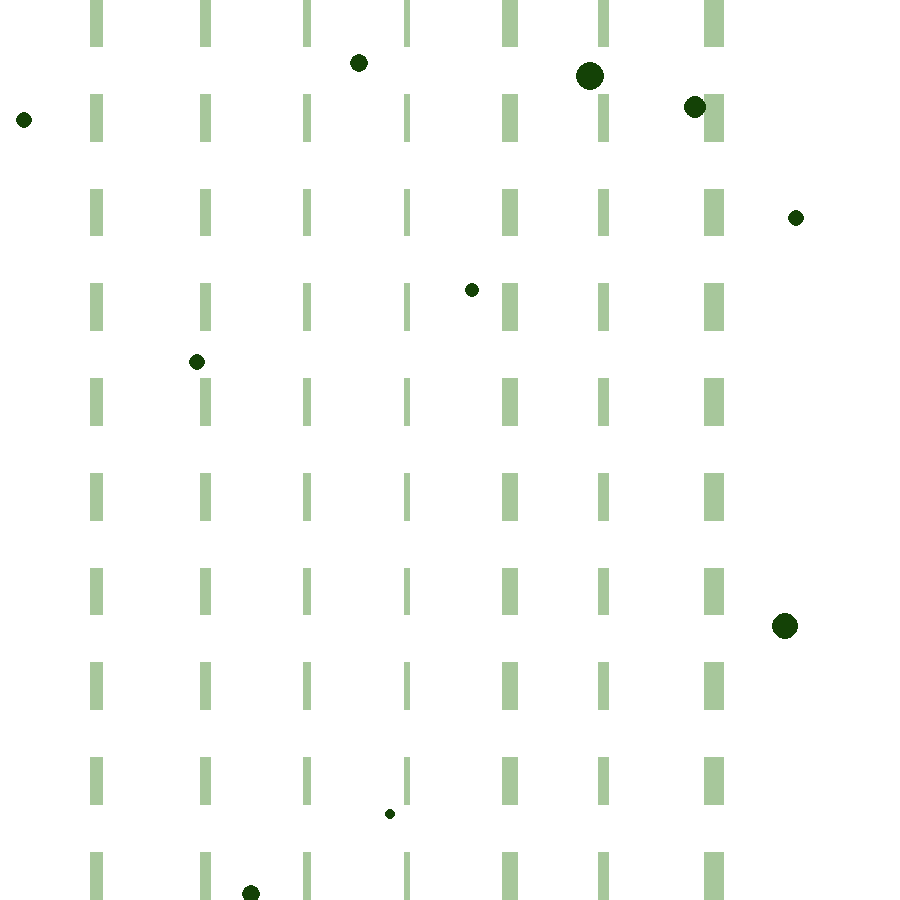
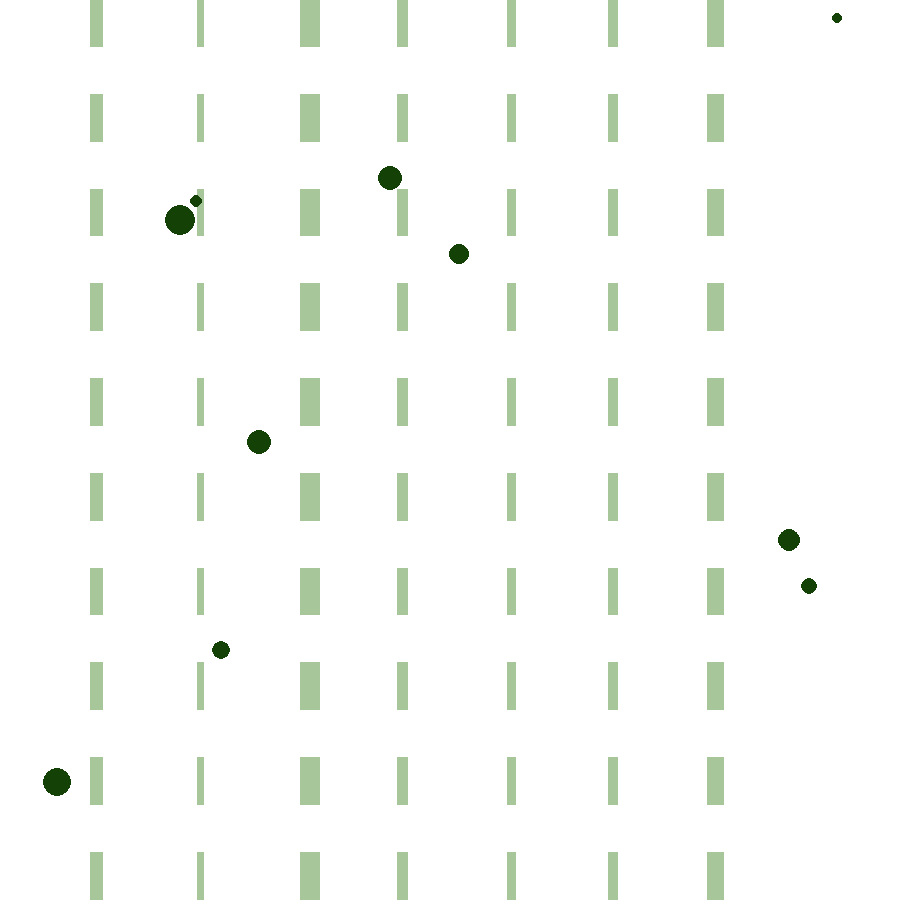
add new motion

diff --git a/new_environment.py b/new_environment.py
@@ -124,7 +124,7 @@ class World:
         for i in range(numTrees):
             x_pos = random.randint(0, width)
             y_pos = random.randint(0, height)
-            tree_radius = random.randint(20, 70)
+            tree_radius = random.randint(10, 25)
             self.tree_xs.append(x_pos)
             self.tree_ys.append(y_pos)
             self.tree_sizes.append(tree_radius)
@@ -161,6 +161,7 @@ class World:
 class Planner:
 
     trajectory = []
+    trajectoryTotal = []
     def __init__(self, robot: Robot, world: World) -> None:
         self.robot = robot
         self.world = world
@@ -183,6 +184,7 @@ class Planner:
         x = HEIGHT//300
         # print("RX: ",rx)
         self.trajectory = np.flip(np.vstack((ry*x, rx*x)).T, axis=0)
+        # self.trajectory = np.flip(np.vstack((rx*x, ry*x)).T, axis=0)
 
         # cv2.imshow('map', obs_map)
         # cv2.waitKey()
@@ -253,11 +255,30 @@ class Visualizer:
             y_pos = self.world.tree_ys[i]
             tree_radius = self.world.tree_sizes[i]
             pygame.draw.circle(self.screen, self.TREE_GREEN, (x_pos, y_pos), tree_radius)
+
+    def display_environment(self):
+        for i in range(self.world.numCropRows):
+            x_pos = self.world.crop_xs[i]
+            crop_width = self.world.cropRow_widths[i]
+            y_pos = 0
+            pygame.draw.rect(self.screen, self.CROP_GREEN, (x_pos, y_pos, crop_width, self.world.height))
+        
+        for i in range(len(self.world.crop_space_ys)):
+            y_pos = self.world.crop_space_ys[i]
+            width = self.world.vert_crop_spacing
+            x_pos = 0
+            pygame.draw.rect(self.screen, self.WHITE, (x_pos, y_pos, self.world.width, width))
+
+        for i in range(self.world.numTrees):
+            x_pos = self.world.tree_xs[i]
+            y_pos = self.world.tree_ys[i]
+            tree_radius = self.world.tree_sizes[i]
+            pygame.draw.circle(self.screen, self.TREE_GREEN, (x_pos, y_pos), tree_radius)
         
     def display_trajectory(self):
         
-        for i in range(len(self.planner.trajectory)-1):
-            pygame.draw.line(self.screen, self.RED, self.planner.trajectory[i], self.planner.trajectory[i+1], 1)
+        for i in range(len(self.planner.trajectoryTotal)-1):
+            pygame.draw.line(self.screen, self.RED, self.planner.trajectoryTotal[i], self.planner.trajectoryTotal[i+1], 1)
 
     def update_display(self, counter: int) -> bool:
 
@@ -268,11 +289,12 @@ class Visualizer:
         self.display_trajectory()
 
         if counter < 1:
-            self.display_world()
+            self.screen.fill(self.WHITE)
+            self.display_environment()
             pygame.image.save(self.screen, 'output.png')
             img = cv2.threshold(255-cv2.imread('output.png',cv2.IMREAD_GRAYSCALE), 50, 255, cv2.THRESH_BINARY)[1]
             img_resize = cv2.resize(img, (300, 300), interpolation=cv2.INTER_AREA)
-            kernel = np.ones((10,10), np.uint8)
+            kernel = np.ones((5,5), np.uint8)
             self.world.world_array = cv2.dilate(img_resize, kernel, iterations=1)
             cv2.imwrite('output_dilated.png', self.world.world_array)
             # cv2.imshow('world', self.world.world_array)
@@ -311,38 +333,58 @@ class Runner:
     def run(self):
         running = True
         counter = 0
+        weeds_destroyed = 0
 
         while running:
-                        
             running = self.vis.update_display(counter)
             
             if counter == 0:
-                self.planner.get_path((290, 290), (0, 0))
-                print(len(self.planner.trajectory))
+                # self.planner.get_path((290, 290), (0, 0))
+                # trajectoryTotal = self.planner.trajectory
+                # self.planner.trajectoryTotal = trajectoryTotal
+                for j in range(0,len(self.world.weed_xs)):
+                    if j == 0:
+                        self.planner.get_path((290, 290), (self.world.weed_ys[j]/3, self.world.weed_xs[j]/3))
+                        trajectoryTotal = self.planner.trajectory
+                        self.planner.trajectoryTotal = trajectoryTotal
+                    else:
+                        self.planner.get_path((self.world.weed_ys[j-1]/3, self.world.weed_xs[j-1]/3), (self.world.weed_ys[j]/3, self.world.weed_xs[j]/3))
+                        trajectoryTotal = np.vstack([trajectoryTotal, self.planner.trajectory])
+                        self.planner.trajectoryTotal = trajectoryTotal
+                # print(trajectoryTotal)
+                # print(len(self.planner.trajectory))
             
-            if counter < len(self.planner.trajectory)-1:
-                x = self.planner.trajectory[counter][0]
-                x_next = self.planner.trajectory[counter+1][0]
-                y = self.planner.trajectory[counter][1]
-                y_next = self.planner.trajectory[counter+1][1]
+
+            
+            if counter < len(self.planner.trajectoryTotal)-1:
+                x = self.planner.trajectoryTotal[counter][0]
+                x_next = self.planner.trajectoryTotal[counter+1][0]
+                y = self.planner.trajectoryTotal[counter][1]
+                y_next = self.planner.trajectoryTotal[counter+1][1]
 
                 angle = atan2(y_next-y, x_next-x)
-                self.robot.turn_to(angle*180/pi - 90)
+                
+                if abs(angle) % pi/2 == 0:
+                    self.robot.turn_to(angle*180/pi)
+                else:
+                    self.robot.turn_to(angle*180/pi + 90)
                 self.robot.set_position(x,HEIGHT-y)
                 self.robot.visited.append([x,y])
                 # print(len(self.robot.visited))
 
             counter += 1
-            time.sleep(0.01)
+            time.sleep(0.05)
         
 
 def main():
     height = HEIGHT
     width = WIDTH
     numTrees = 3
-    numCropRows = 7
+    #numCropRows = 7
+    #cropsPerRow = 10
+    numCropRows = 5
     cropsPerRow = 10
-    numWeeds = 10
+    numWeeds = 3
 
     robot = Robot(500,500)
     world = World(width, height, numTrees, numCropRows, cropsPerRow, numWeeds)

diff --git a/holonomic.py b/holonomic.py
@@ -30,12 +30,13 @@ def convert_to_display(mat):
 class Robot:
     x_coord: int
     y_coord: int
-    width: int = 20
-    height: int = 20
-    leg_length: int = 5
-    wheel_diam: int = 4
+    width: int = 70
+    height: int = 70
+    leg_length: int = 35
+    wheel_diam: int = 15
     angle = 0
     points = []
+    point = []
     # leg angles in degrees wrt robot frame
     # wheel angles in degrees wrt robot frame
     # this will be rotated
@@ -48,6 +49,8 @@ class Robot:
     def __init__(self, x, y) -> None:
         self.x_coord = x
         self.y_coord = y
+
+        self.point = [450,HEIGHT-450]
         # self.chassis = self.robot_points()
     
     def get_robot_points(self):
@@ -81,14 +84,34 @@ class Robot:
         points = rot_points(points, self.angle) + np.array([self.x_coord, self.y_coord])
 
         points = convert_to_display(points)
+        self.points = points
         return points
     
     def turn_to(self, theta: float) -> None:
         self.wheel[:] = theta
+
+    def turn_about(self, point: Tuple[int, int], counter: int) -> None:
+        x = point[0]
+        y = HEIGHT - point[1]
+
+        for i in range(4):
+            x_wheel = self.points[i+4][0]
+            y_wheel = HEIGHT-self.points[i+4][1]
+
+            self.wheel[i] = atan2(y_wheel-y, x_wheel-x) * 180/pi + 90
+            # print(self.wheel[i])
+
+        r = sqrt((x - self.x_coord)**2 + (y - self.y_coord)**2)
+        # print(r)
+        self.x_coord = x + r*cos((counter % 360)*pi/180)
+        self.y_coord = y + r*sin((counter % 360)*pi/180)
+
+        # print(self.x_coord, self.y_coord)
     
     def set_position(self, x: int, y:int) -> None:
         self.x_coord = x
         self.y_coord = y
+
 
 
 class World:    
@@ -224,6 +247,7 @@ class Visualizer:
         # plot legs
         for i in range(4):
             pygame.draw.line(self.screen, self.BLUE, all_points[i], all_points[i+4], 2)
+            pygame.draw.circle(self.screen, self.RED, all_points[i+4], 5)
         
         # plot wheels
         for i in range(8,15,2):
@@ -231,6 +255,9 @@ class Visualizer:
         
         # heading
         pygame.draw.line(self.screen, self.BLUE, all_points[-2], all_points[-1], 2)
+
+        # plot point
+        pygame.draw.circle(self.screen, self.RED, self.robot.point, 5)
 
     def display_world(self):
         for i in range(self.world.numCropRows):
@@ -263,7 +290,7 @@ class Visualizer:
 
         self.screen.fill(self.WHITE)
 
-        self.display_world()
+        # self.display_world()
 
         self.display_trajectory()
 
@@ -313,24 +340,24 @@ class Runner:
         counter = 0
 
         while running:
-                        
-            running = self.vis.update_display(counter)
-            
-            if counter == 0:
-                self.planner.get_path((290, 290), (0, 0))
-                print(len(self.planner.trajectory))
-            
-            if counter < len(self.planner.trajectory)-1:
-                x = self.planner.trajectory[counter][0]
-                x_next = self.planner.trajectory[counter+1][0]
-                y = self.planner.trajectory[counter][1]
-                y_next = self.planner.trajectory[counter+1][1]
 
-                angle = atan2(y_next-y, x_next-x)
-                self.robot.turn_to(angle*180/pi - 90)
-                self.robot.set_position(x,HEIGHT-y)
-                self.robot.visited.append([x,y])
-                # print(len(self.robot.visited))
+            running = self.vis.update_display(counter)            
+            self.robot.points = self.robot.get_robot_points()
+            
+            self.robot.leg[:] += 1
+            
+            if counter < 1000:
+                point = (450, HEIGHT-450)
+                
+            else:
+                point = (200, HEIGHT- 200)
+            self.robot.point = point
+            self.robot.turn_about(point, counter)
+
+            # print(self.robot.point)
+            
+            # running = self.vis.update_display(counter)
+
 
             counter += 1
             time.sleep(0.01)
@@ -339,12 +366,12 @@ class Runner:
 def main():
     height = HEIGHT
     width = WIDTH
-    numTrees = 3
+    numTrees = 0
     numCropRows = 7
     cropsPerRow = 10
     numWeeds = 10
 
-    robot = Robot(500,500)
+    robot = Robot(450,100)
     world = World(width, height, numTrees, numCropRows, cropsPerRow, numWeeds)
     planner = Planner(robot, world)
     vis = Visualizer(robot, world, planner)

diff --git a/astar.py b/astar.py
@@ -24,7 +24,7 @@ class AStarPlanner:
         """
 
         self.reso = 1
-        self.rr = 1
+        self.rr = 0.5
 
         # self.calc_obstacle_map(ox, oy)
         self.obstacle_map = obs_map
@@ -231,6 +231,6 @@ class AStarPlanner:
     #               [-1, 0, 1],
     #               [0, -1, 1]]
 
-    #     return motion
+        return motion
 
 
